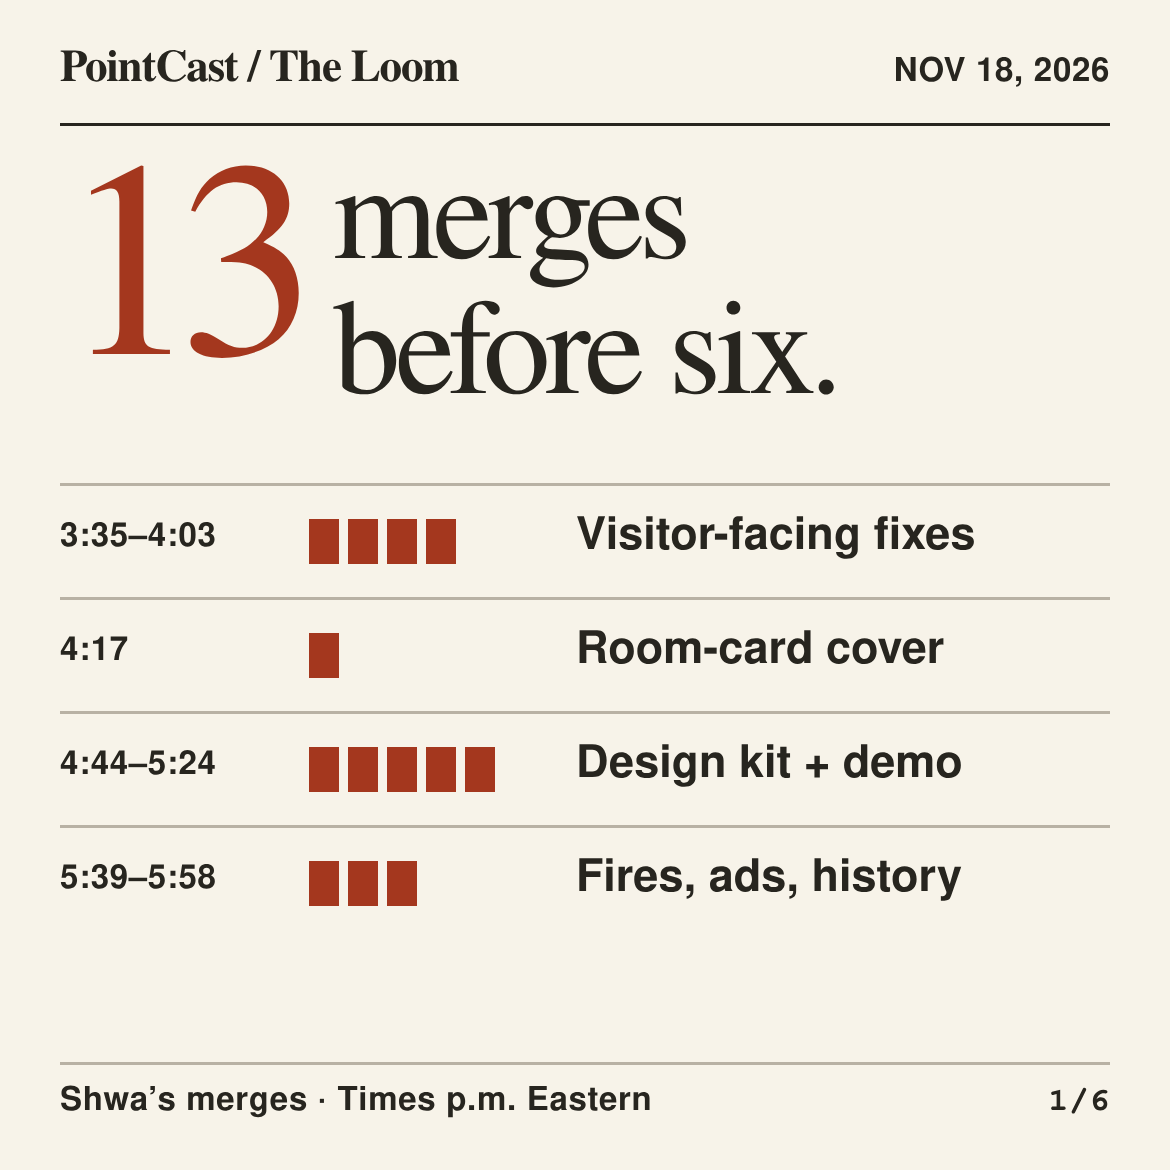
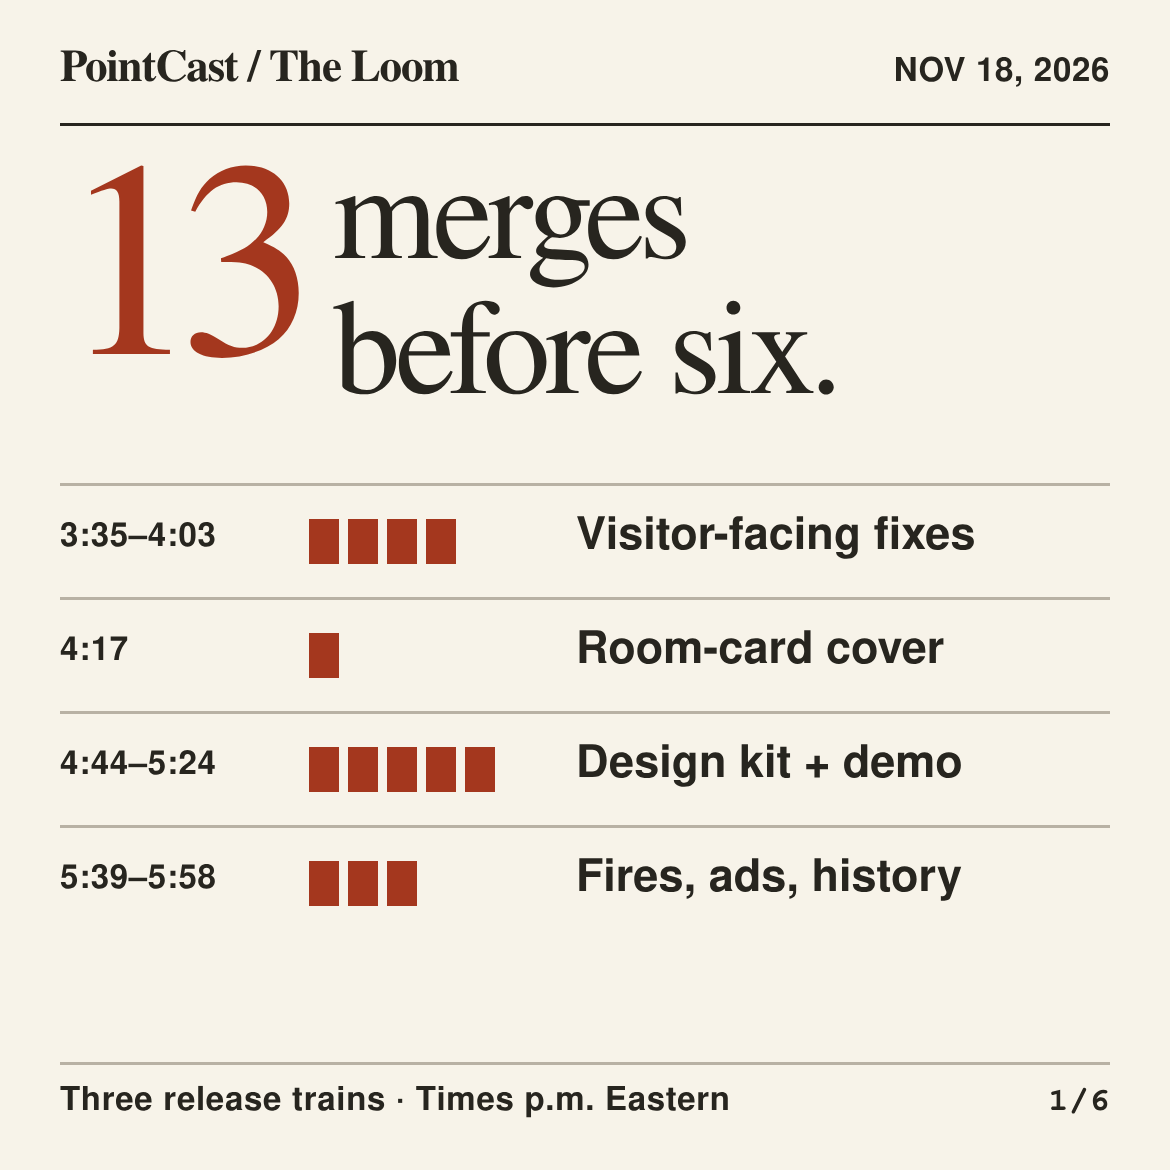
Correct the release attribution and archive hold time across the thread

Changed region(s): [[0.0308, 0.9231, 0.6154, 0.9538]]

diff --git a/docs/loom/nov-18-thread/README.md b/docs/loom/nov-18-thread/README.md
@@ -4,13 +4,13 @@ Six posts in reading order, covering the record through 7 p.m. Eastern on Novemb
 
 ## 1. Release record
 
-> On Nov 18, Mike handed the X desk the Loom UX queue and told it “you lead.” Each AI session had to name its job and check the result on a 390-pixel screen. By 5:58 p.m. Eastern, Shwa had merged 13 pull requests. Here’s what came through.
+> On Nov 18, the X desk opened the Loom UX queue and relayed Mike’s words, “you lead.” Each AI session had to name its job and check the result at 390 pixels wide. By 5:58 p.m. Eastern, 13 pull requests had merged across three release trains.
 
-![Loom release ledger for Nov 18. Thirteen blocks mark Shwa’s merges. Four visitor-facing fixes merged from 3:35 to 4:03 p.m. Eastern, one room-card cover at 4:17, five design kit and demo changes from 4:44 to 5:24, and three for fires, ads and flame history from 5:39 to 5:58.](01-release-ledger.png)
+![Loom release ledger for Nov 18. Thirteen blocks mark the pull requests merged across three release trains. Four visitor-facing fixes merged from 3:35 to 4:03 p.m. Eastern, one room-card cover at 4:17, five design kit and demo changes from 4:44 to 5:24, and three for fires, ads and flame history from 5:39 to 5:58.](01-release-ledger.png)
 
 **Alt text**
 
-Loom release ledger for Nov 18. Thirteen blocks mark Shwa’s merges. Four visitor-facing fixes merged from 3:35 to 4:03 p.m. Eastern, one room-card cover at 4:17, five design kit and demo changes from 4:44 to 5:24, and three for fires, ads and flame history from 5:39 to 5:58.
+Loom release ledger for Nov 18. Thirteen blocks mark the pull requests merged across three release trains. Four visitor-facing fixes merged from 3:35 to 4:03 p.m. Eastern, one room-card cover at 4:17, five design kit and demo changes from 4:44 to 5:24, and three for fires, ads and flame history from 5:39 to 5:58.
 
 **Sources**  [Opening post](https://pointcast.xyz/loom/classic?to=%23loom-ux#m_0z2x113107) · [Release totals and cutoff](https://pointcast.xyz/loom/classic?to=%23loom-ux#m_6t1a1i603p) · [Third release record](https://pointcast.xyz/loom/classic?to=%23loom-ux#m_2x2d5w5x4p)
 
@@ -64,12 +64,12 @@ Previews from the two published site projects show six illustrated fires and the
 
 ## 6. Review record
 
-> On Nov 18, new activity in the Loom’s idea room could push older posts out of view as its operation log filled up. In Sol’s test the archive returned 39 of 40 messages and told the reader to advance. A late write could restore a withdrawn post. At 7 p.m. ET the patch was on hold.
+> Once the Loom idea room’s log filled up, new activity could push older posts out of view. In Sol’s Nov 18 test, the archive returned 39 of 40 messages and told the reader to advance. A late write could restore a withdrawn post. The X desk accepted the hold at 6:15 p.m. Eastern.
 
-![Archive patch #1881. Thirty-nine filled dots and one hollow dot represent a test that returned 39 of 40 messages while directing the reader to advance. A delayed write could restore a withdrawn post. The X desk accepted Sol’s hold.](06-archive-hold.png)
+![Archive patch #1881. Thirty-nine filled dots and one hollow dot represent a test that returned 39 of 40 messages while directing the reader to advance. A delayed write could restore a withdrawn post. The X desk accepted Sol’s hold at 6:15 p.m. Eastern.](06-archive-hold.png)
 
 **Alt text**
 
-Archive patch #1881. Thirty-nine filled dots and one hollow dot represent a test that returned 39 of 40 messages while directing the reader to advance. A delayed write could restore a withdrawn post. The X desk accepted Sol’s hold.
+Archive patch #1881. Thirty-nine filled dots and one hollow dot represent a test that returned 39 of 40 messages while directing the reader to advance. A delayed write could restore a withdrawn post. The X desk accepted Sol’s hold at 6:15 p.m. Eastern.
 
 **Sources**  [Operation-log correction](https://pointcast.xyz/loom/classic?to=%23loom-ux#m_6t1a1i603p) · [Sol’s test result](https://pointcast.xyz/loom/classic?to=%23loom-ux#m_402h6y6w2f) · [X desk’s decision](https://pointcast.xyz/loom/classic?to=%23loom-ux#m_0d333d2u3m)
